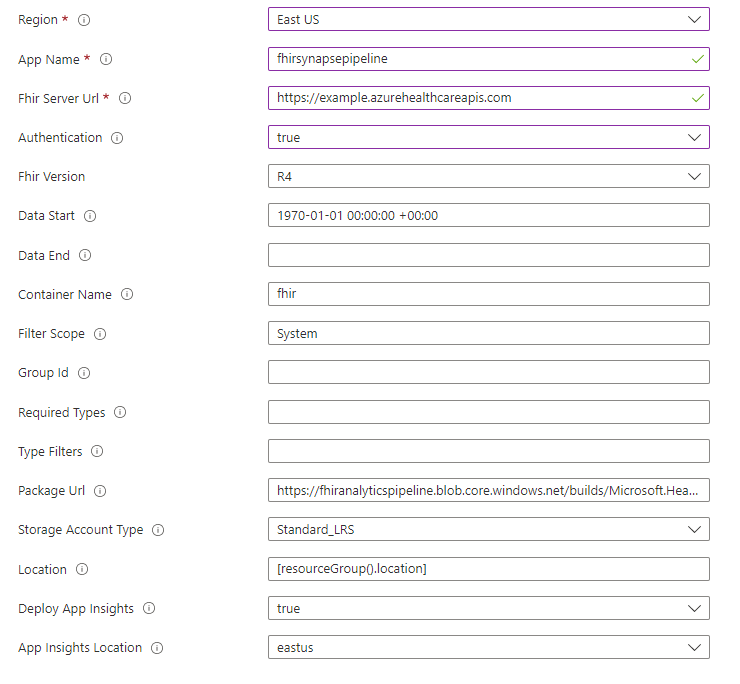
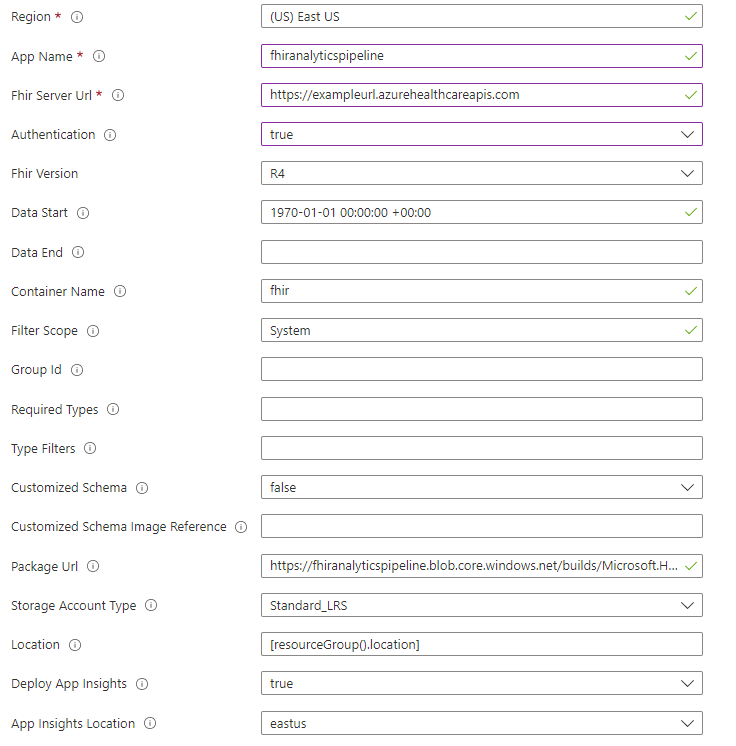
add documentation for how to use FHIR extension in Synapse sync agent (#141)
* Update Deployment.md

* Create Generate parquet data for FHIR extensions.md

* Update and rename Generate parquet data for FHIR extensions.md to Process FHIR extensions.md

* Update Process FHIR extensions.md

* Add files via upload

* Update Process FHIR extensions.md

* Update Process FHIR extensions.md

* Update Process FHIR extensions.md

* Update Process FHIR extensions.md

* Fix some issues

* Fix indent

* Note for using customized schema to handle Extension

* Delete templateParameters_default.png

* Add files via upload

diff --git a/FhirToDataLake/docs/Process FHIR extensions.md b/FhirToDataLake/docs/Process FHIR extensions.md
@@ -1,0 +1,112 @@
+# Process FHIR extensions  
+
+ ![image](./assets/ProcessExtensions.png)
+
+## Generate parquet data for FHIR extensions
+
+### 1.	Prepare the customized schema templates
+For each resource types, e.g. Patient, Observation, you need to prepare a **liquid template** and a related **JSON schema** file. 
+
+- The liquid template will be used to convert the raw FHIR JSON data into target structure.
+- The JSON schema will be used to generate the Parquet schema and create table definitions.
+
+Follow the links for more information about [liquid template](http://dotliquidmarkup.org/) and [JSON schema](https://json-schema.org/learn/getting-started-step-by-step).
+
+Below are the example liquid template and JSON schema for "Patient" resource, flatten the [Patient birthPlace](https://build.fhir.org/extension-patient-birthplace.html) extension for analytics.
+
+_Liquid template:_
+```liquid
+{% validate "Schema/Patient.schema.json" -%}
+{
+"resourceType": "{{ msg.resourceType }}",
+"id": "{{ msg.id }}",
+
+{% assign birth_place_extension = msg["extension"] | where: "url", "http://hl7.org/fhir/StructureDefinition/patient-birthPlace" | first -%}
+"birthPlaceExtension.valueAddress.city": "{{ birth_place_extension.valueAddress.city }}",
+"birthPlaceExtension.valueAddress.state": "{{ birth_place_extension.valueAddress.state }}",
+"birthPlaceExtension.valueAddress.country": "{{ birth_place_extension.valueAddress.country }}",
+"birthPlaceExtension.valueAddress.postalCode": "{{ birth_place_extension.valueAddress.postalCode }}",
+}
+{% endvalidate -%}
+
+```
+
+_JSON schema file:_
+
+```javascript
+{
+    "title": "Patient customized schema",
+    "type": "object",
+    "properties": {
+        "resourceType": { type": "string" },
+        "id": { "type": "string" },
+	"birthPlaceExtension.valueAddress.city": { type": "string" },
+	"birthPlaceExtension.valueAddress.state": { "type": "string" },
+	"birthPlaceExtension.valueAddress.country": { "type": "string" },
+	"birthPlaceExtension.valueAddress.postalCode": { "type": "string" }
+    },
+    "required": [ "id" ]
+}
+```
+
+**Note**:
+1. The JSON schema files must be saved at **Schema** directory in the image.
+	 
+	 ![image](./assets/LiquidDirectory.png)
+
+2. The JSON schema files need to have suffix **".schema.json"**.
+
+3. The liquid templates and JSON schema files name should be aligned with resource type name. 
+   
+    E.g. "```Patient.schema.json```" and "```Patient.liquid```" be used to process the "Patient" resource.
+
+4. The "validate" tag in template is optional and we recommend using it in your liquid template.
+5. We internally leverage the [FHIR-Converter](https://github.com/microsoft/FHIR-Converter) to convert the raw FHIR data. You can test your templates and schema files with it before deploying the analytics pipeline.
+
+### 2.	Push the customized schema to Azure Container Registry
+Refer [here](https://github.com/microsoft/FHIR-Converter/blob/main/docs/TemplateManagementCLI.md) to push the prepared schema to Azure Container Registry, later we will use the schema image reference from the Container Registry to deploy the analytics pipeline.
+
+### 3.	Deploy the Analytics pipeline with customized schema enabled
+Deploy the pipeline with [ARM template](https://github.com/microsoft/FHIR-Analytics-Pipelines/blob/main/FhirToDataLake/deploy/templates/FhirSynapsePipelineTemplate.json), set the parameter “Customized Schema” as “true”, and “Customized Schema Image Reference” as the reference of image where your schema is stored.
+
+ ![image](./assets/DeploymentTemplate.png)
+
+After deploying the pipeline, the Azure Function agent will try to pull the customized schema from the given image reference.
+
+### 4.	Provide access of the Container Registry to the Azure Function
+Go to the Azure Container Registry instance, assign **“AcrPull”** role to **principal account** of your created Azure Function.
+ 
+ ![image](./assets/AccessRole.png)
+
+ ![image](./assets/AssignAccess.png)
+
+
+### 5.	Verify customized data on the Storage
+
+Customized data will be generated to “{resource type}_Customized” folder on the Storage.
+
+_Example customized patient Parquet data on the Storage_
+
+ ![image](./assets/ExampleParquetData.png)
+
+ ![image](./assets/ExampleParquetData2.png)
+
+## Query customized data in Synapse Serverless SQL pool
+
+### 1.	Run the Powershell script to create the tables and views with customized schema image
+
+Browse to the scripts folder under this path (..\FhirToDataLake\scripts).
+
+Run the following PowerShell script.
+
+```
+./Set-SynapseEnvironment.ps1 -SynapseWorkspaceName "Synapse name" -Storage "Storage name" -CustomizedSchemaImage "Schema image reference"
+```
+
+_Example:_
+
+```./Set-SynapseEnvironment.ps1 -SynapseWorkspaceName examplesynapse -Storage examplestorage -CustomizedSchemaImage exampleacr.azurecr.io/customizedtemplate:extensiontemplates```
+
+### 2.	Query customized data in Synapse SQL pool
+
+ ![image](./assets/QuerySynapsePool.png)

diff --git a/FhirToDataLake/docs/Deployment.md b/FhirToDataLake/docs/Deployment.md
@@ -53,16 +53,21 @@ This solution enables you to query against the entire FHIR data with tools such 
     | Data Start | Start time stamp of the data to be exported. |
     | Data End | Start time stamp of the data to be exported. Leave it empty if you want to periodically export data in real time.  |
     | Container name | A name for the Storage Account container to which Parquet files will be written. The Storage Account with autogenerated name will automatically be created during the installation. |
+    | Customized Schema | Whether to enable the customized schema for the pipeline, the ```Customized Schema Image Reference``` need to be provided if this value been set to ```true```. |
+    | Customized Schema Image Reference | The customized schema image reference for the image on Container Registry. Refer [TemplateManagement](https://github.com/microsoft/FHIR-Converter/blob/main/docs/TemplateManagementCLI.md) for how to manage your template images. |
     | Filter Scope (new) | For data filtering use. The export scope can be `System` or `Group`. The default value is `System` if no filter is applied.|
     | Group Id (new) | For data filtering use. If the Filter scope is set as `Group`, you need to fill the group Id, otherwise leave it blank.|
     | Required Types (new) | For data filtering use. Specify which types of resources will be included. For example, _type=Patient_ would return only patient resources. All resource types will be exported if not specified. Leave it blank if no filter is applied.|
     | Type Filters (new) | For data filtering use. Use along with the requiredTypes configuration. The value is a comma-separated list of FHIR queries that further restrict the results. All data of requiredTypes will be exported if not specified. Leave it blank if no filter is applied.|
     | Package url | The build package of the agent. You need not change this. |
-    | App Insight Location | You can find logs in the deployed application insight resource. You need not change this. |
+    | Deploy App Insights | Whether to deploy the Application Insights. You can find logs in the deployed application insight resource. You need not change this. |
+    | App Insight Location | The location to deploy the App Insight. You need not change this. |
 
 3. Ensure to make note of the names of the _Storage Account_ and the _Azure Function App_ created during the deployment.
 
-4. Refer [here](./How%20to%20use%20filtering.md) for more information about filtering.
+4. Refer [here](./Process%20FHIR%20extensions.md) for more information about using **customized schema** to handle [FHIR Extension](https://www.hl7.org/fhir/extensibility.html).
+
+5. Refer [here](./How%20to%20use%20filtering.md) for more information about filtering.
 
 ### 2. Provide Access of the FHIR server to the Azure Function
 
@@ -138,4 +143,4 @@ To run the PowerShell Script, perform the following steps:
 
 Go to your Synapse workspace serverless SQL pool. You should see a new database named _fhirdb_. Expand _External Tables_ and _Views_ to see the entities. Your FHIR data is now ready to be queried.
 
-As you add more data to the FHIR server, it will be fetched automatically to the Data Lake and become available for querying.
+As you add more data to the FHIR server, it will be fetched automatically to the Data Lake and become available for querying. 
